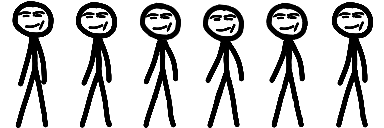
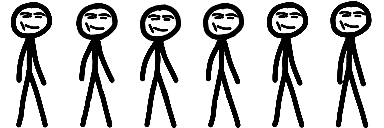
FEAT: state system to update player's animations

diff --git a/A3/src/Scene_Play.cpp b/A3/src/Scene_Play.cpp
@@ -21,16 +21,20 @@ void Scene_Play::init(const std::string &levelPath) {
   registerAction(sf::Keyboard::Key::G, "toggle_grid");
 
   registerAction(sf::Keyboard::Key::Up, "jump");
-  registerAction(sf::Keyboard::Key::Left, "left");
-  registerAction(sf::Keyboard::Key::Right, "right");
-  registerAction(sf::Keyboard::Key::S, "shoot");
-
-  registerAction(sf::Keyboard::Key::W, "jump");
-  registerAction(sf::Keyboard::Key::A, "left");
-  registerAction(sf::Keyboard::Key::D, "right");
-  registerAction(sf::Keyboard::Key::K, "shoot");
-
   registerAction(sf::Keyboard::Key::Space, "jump");
+  registerAction(sf::Keyboard::Key::W, "jump");
+
+  registerAction(sf::Keyboard::Key::Left, "left");
+  registerAction(sf::Keyboard::Key::A, "left");
+
+  registerAction(sf::Keyboard::Key::Right, "right");
+  registerAction(sf::Keyboard::Key::D, "right");
+
+  registerAction(sf::Keyboard::Key::Down, "down");
+  registerAction(sf::Keyboard::Key::S, "down");
+
+  registerAction(sf::Keyboard::Key::C, "shoot");
+  registerAction(sf::Keyboard::Key::LShift, "shoot");
 
   loadLevel(levelPath);
 }
@@ -38,7 +42,8 @@ void Scene_Play::init(const std::string &levelPath) {
 sf::Vector2f Scene_Play::gridToMidPixel(float gridX, float gridY,
                                         entity_ptr entity) {
   const auto &animation = entity->get<CAnimation>();
-  assert(animation.exists && "[!] Can't use without entity's CAnimation");
+  assert(animation.exists);
+
   auto size = animation.animation->size();
   return sf::Vector2f((m_gridSize.x * gridX) + (size.x / 2.0f),
                       m_game->window().getSize().y -
@@ -78,7 +83,7 @@ void Scene_Play::spawnPlayer() {
     m_player = m_entities.addEntity("Player");
   }
 
-  m_player->add<CAnimation>(m_game->assets().getAnimation("run"), true);
+  m_player->add<CAnimation>(m_game->assets().getAnimation("stand"), true);
   m_player->add<CTransform>(gridToMidPixel(0, 0, m_player),
                             sf::Vector2f(7.5f, 7.5f), sf::Vector2f(1.0f, 1.0f),
                             0.0f);
@@ -101,6 +106,7 @@ void Scene_Play::update() {
   sMovement();
   sLifeSpan();
   sCollision();
+  sState();
   sAnimation();
   sRender();
 }
@@ -109,9 +115,7 @@ void Scene_Play::sMovement() {
   auto &input = m_player->get<CInput>();
   auto &transform = m_player->get<CTransform>();
   auto &state = m_player->get<CState>();
-  assert(input.exists && "[!] CInput required for the player entity");
-  assert(transform.exists && "[!] CTransform required for the player entity");
-  assert(state.exists && "[!] CState required for the player entity");
+  assert(input.exists && transform.exists && state.exists);
 
   sf::Vector2f dir;
   if (input.right) {
@@ -123,15 +127,21 @@ void Scene_Play::sMovement() {
   if (input.up) {
     dir.y += -1.0f;
   }
+  if (input.down) {
+    dir.y += 1.0f;
+  }
 
   if (dir != sf::Vector2f(0, 0)) {
-    if (dir.x < 0) {
+    state.state = "run";
+    if (dir.x < 0) { // TODO mejorar
       transform.scale.x = -1.0f;
     } else {
       transform.scale.x = 1.0f;
     }
     transform.pos.x += dir.x * transform.velocity.x;
     transform.pos.y += dir.y * transform.velocity.y;
+  } else {
+    state.state = "stand";
   }
 
   // TODO Implement player movement/jumping based on its CInput component
@@ -180,9 +190,19 @@ void Scene_Play::sRender() {
   }
 }
 
+void Scene_Play::sState() {
+  auto &animation = m_player->get<CAnimation>();
+  auto &state = m_player->get<CState>();
+  assert(animation.exists && state.exists);
+
+  if (state.state != animation.animation->name()) {
+    m_player->add<CAnimation>(m_game->assets().getAnimation(state.state), true);
+  }
+}
+
 void Scene_Play::sDoAction(const Action &action) {
   auto &input = m_player->get<CInput>();
-  assert(input.exists && "[!] CInput required for the player entity");
+  assert(input.exists);
   bool type = action.type();
   if (action.name() == "jump") {
     input.up = type;
@@ -190,6 +210,8 @@ void Scene_Play::sDoAction(const Action &action) {
     input.right = type;
   } else if (action.name() == "left") {
     input.left = type;
+  } else if (action.name() == "down") {
+    input.down = type;
   } else if (action.name() == "shoot") {
     input.shoot = type;
   }

diff --git a/A3/src/Scene_Play.h b/A3/src/Scene_Play.h
@@ -34,6 +34,7 @@ protected:
   void sAnimation();
   void sRender() override;
   void sDoAction(const Action &action) override;
+  void sState();
 
 public:
   Scene_Play(GameEngine *gameEngine, const std::string &levelPath);
